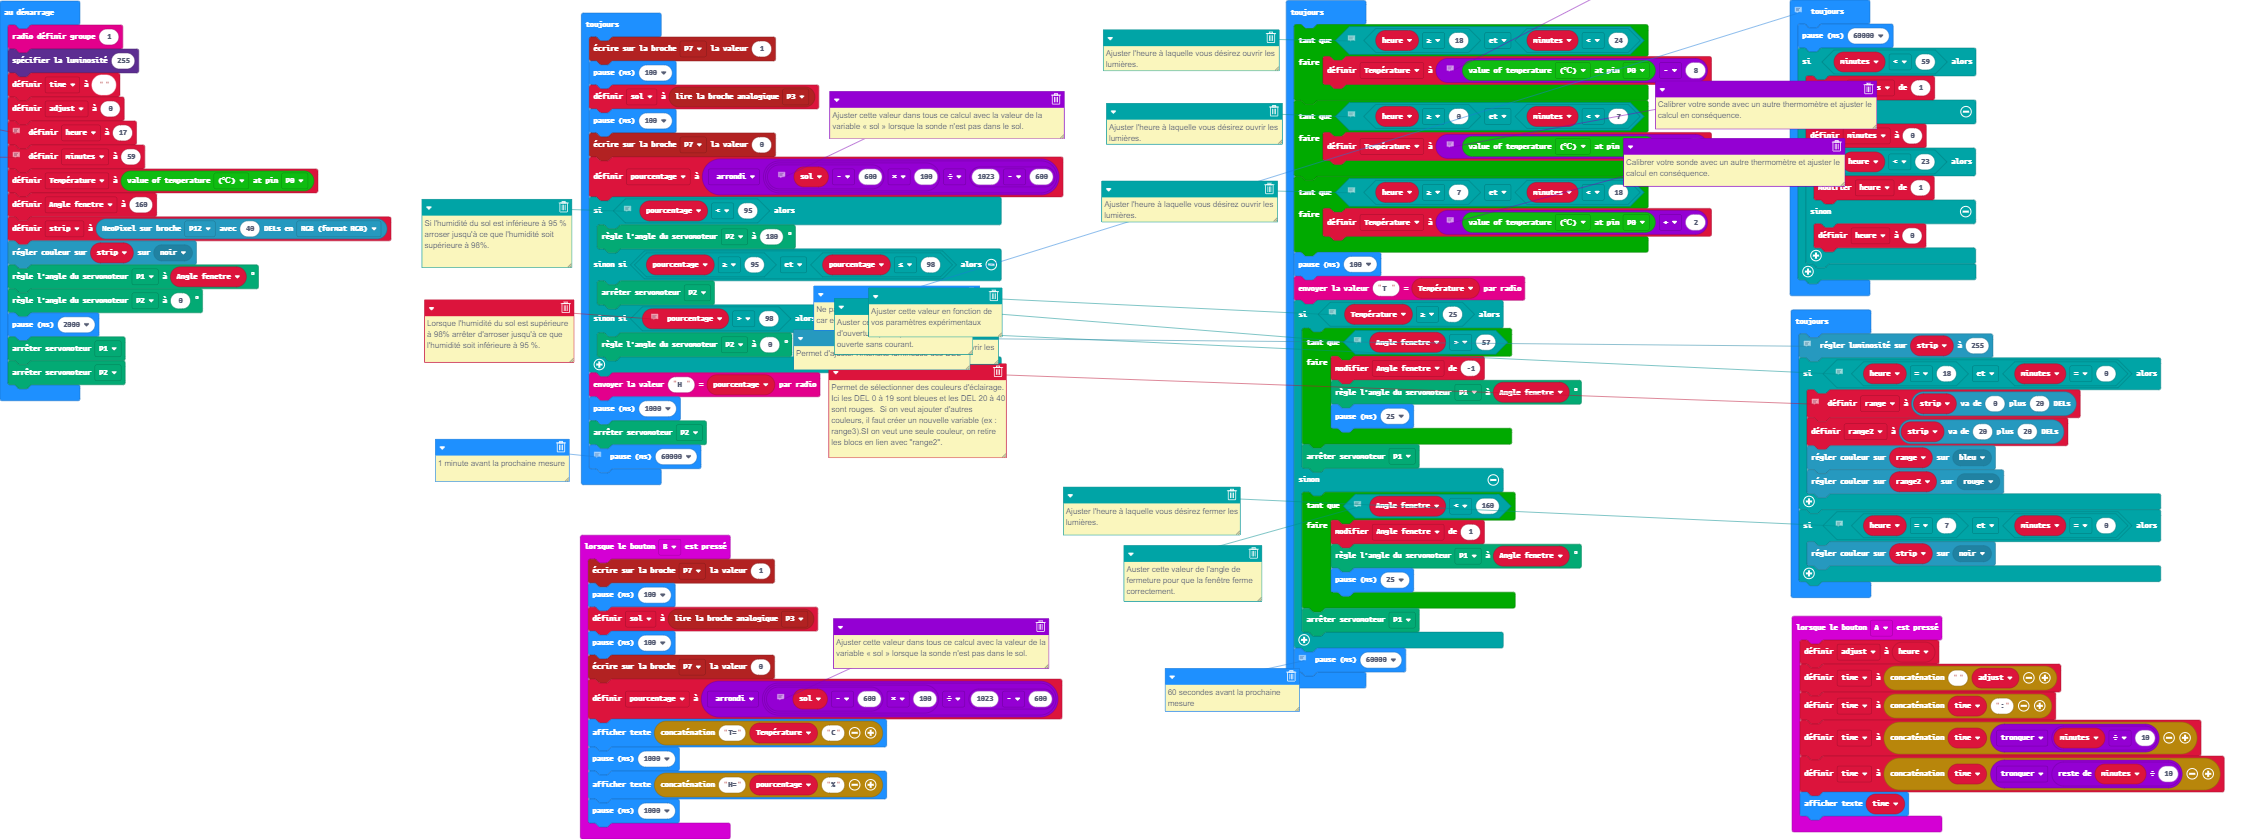
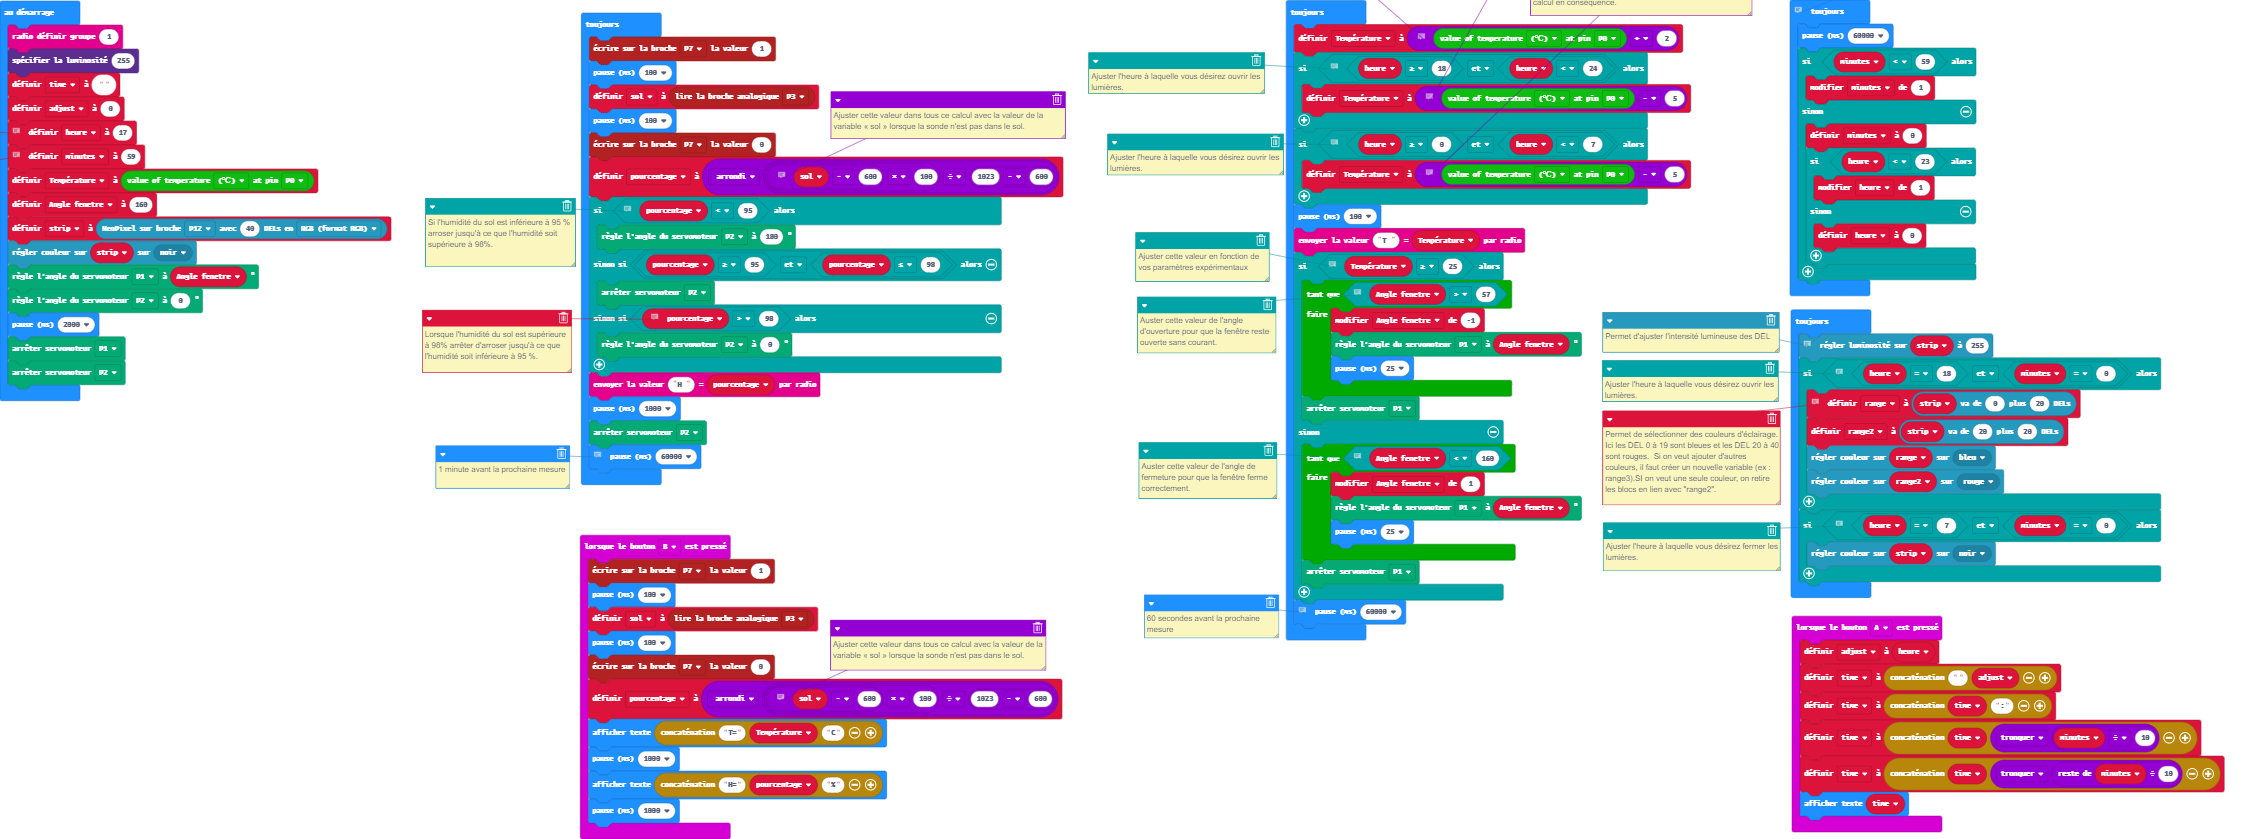
Ajout de « si » pour ajuster la température lors de l'ouverture DEL

diff --git a/main.ts b/main.ts
@@ -69,20 +69,17 @@ basic.forever(function () {
     basic.pause(60000)
 })
 basic.forever(function () {
+    // Calibrer votre sonde avec un autre thermomètre et ajuster le calcul en conséquence.
+    Température = smarthome.ReadTemperature(TMP36Type.TMP36_temperature_C, AnalogPin.P0) + 2
     // Ajuster l'heure à laquelle vous désirez ouvrir les lumières.
-    while (heure >= 18 && minutes < 24) {
+    if (heure >= 18 && heure < 24) {
         // Calibrer votre sonde avec un autre thermomètre et ajuster le calcul en conséquence.
-        Température = smarthome.ReadTemperature(TMP36Type.TMP36_temperature_C, AnalogPin.P0) - 8
+        Température = smarthome.ReadTemperature(TMP36Type.TMP36_temperature_C, AnalogPin.P0) - 5
     }
     // Ajuster l'heure à laquelle vous désirez ouvrir les lumières.
-    while (heure >= 0 && minutes < 7) {
+    if (heure >= 0 && heure < 7) {
         // Calibrer votre sonde avec un autre thermomètre et ajuster le calcul en conséquence.
-        Température = smarthome.ReadTemperature(TMP36Type.TMP36_temperature_C, AnalogPin.P0) - 8
-    }
-    // Ajuster l'heure à laquelle vous désirez ouvrir les lumières.
-    while (heure >= 7 && minutes < 18) {
-        // Calibrer votre sonde avec un autre thermomètre et ajuster le calcul en conséquence.
-        Température = smarthome.ReadTemperature(TMP36Type.TMP36_temperature_C, AnalogPin.P0) + 2
+        Température = smarthome.ReadTemperature(TMP36Type.TMP36_temperature_C, AnalogPin.P0) - 5
     }
     basic.pause(100)
     radio.sendValue("T ", Température)
